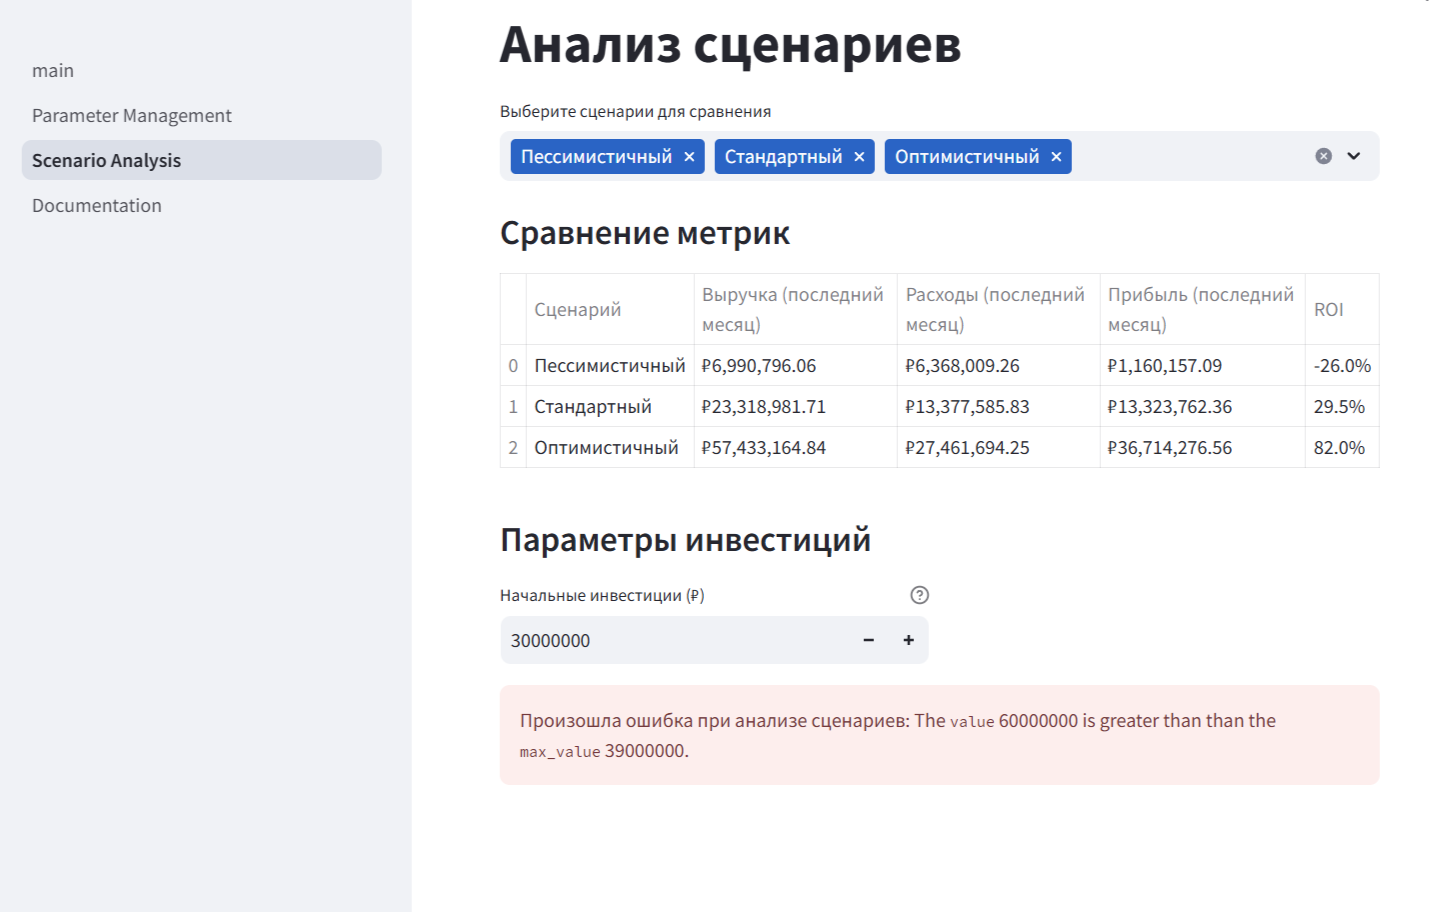
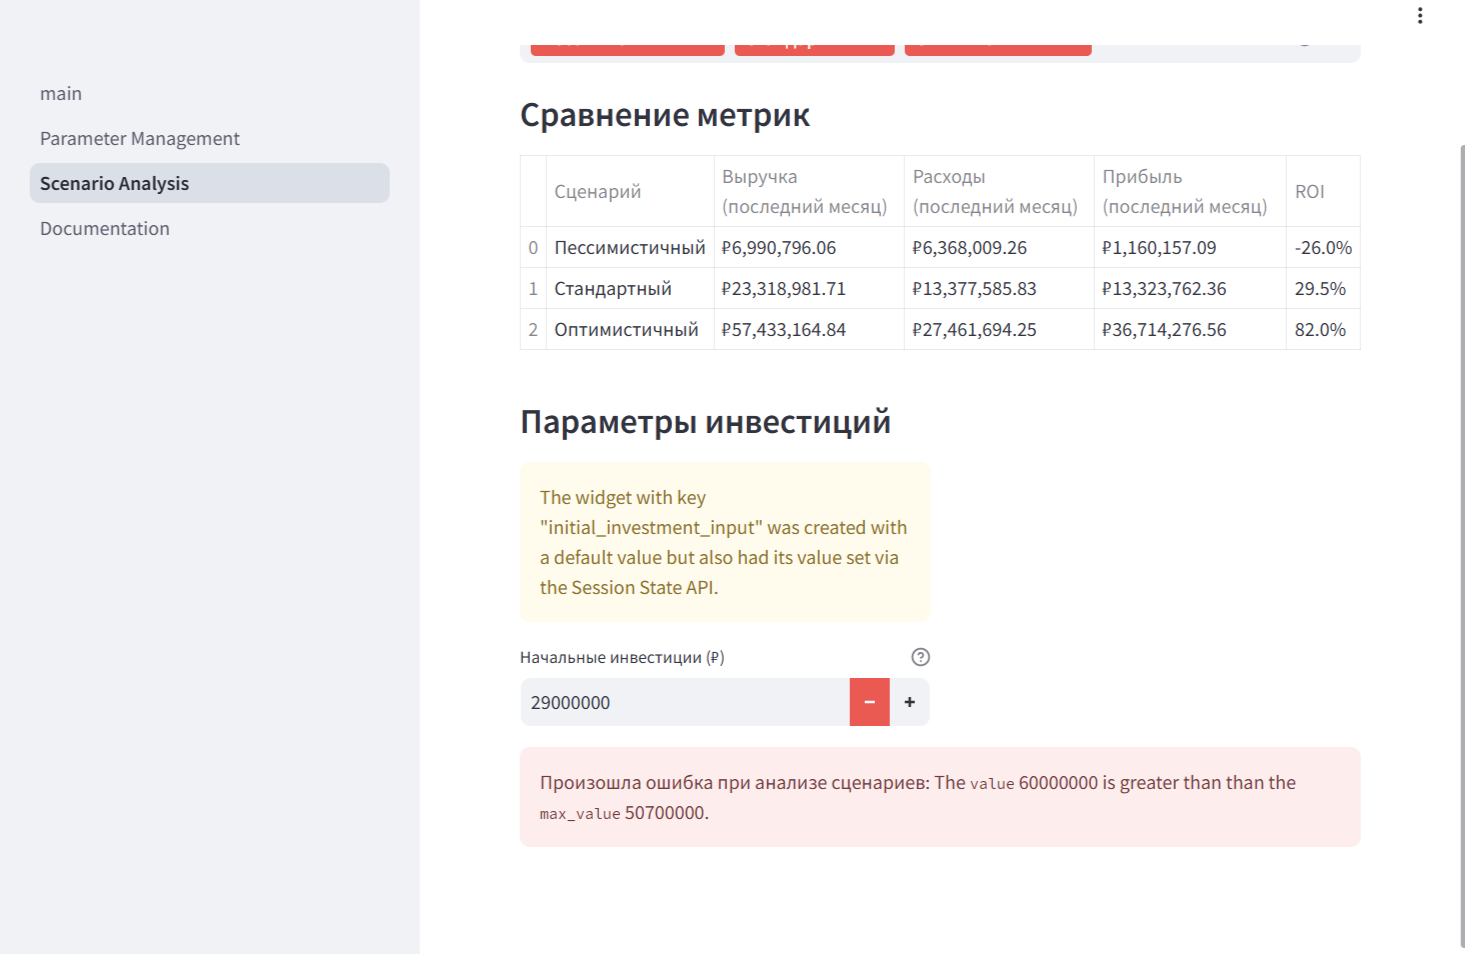
Agent query: Проверьте, пожалуйста, исчезла ли ошибка в разделе Scenario Analysis при работе с preparatory_expenses?
Fix: Limit maximum values for initial investment and preparatory expenses in scenario analysis to prevent Streamlit errors.

Screenshot: https://storage.googleapis.com/screenshot-production-us-central1/f5e095a3-f525-4b15-8ae3-3ce0f434ca6e/b8938b2c-4abe-49e3-bc04-1aa273863223.jpg

diff --git a/pages/2_Scenario_Analysis.py b/pages/2_Scenario_Analysis.py
@@ -139,9 +139,9 @@ def scenario_analysis_page():
         st.subheader("Параметры инвестиций")
         col1, col2 = st.columns(2)
 
-        # Store previous values
-        prev_investment = st.session_state.get('initial_investment', 30000000)
-        prev_expenses = st.session_state.get('preparatory_expenses', 60000000)
+        # Store previous values with limits
+        prev_investment = min(st.session_state.get('initial_investment', 30000000), 130000000)
+        prev_expenses = min(st.session_state.get('preparatory_expenses', 21000000), 50700000)
 
         with col1:
             initial_investment = st.number_input(
